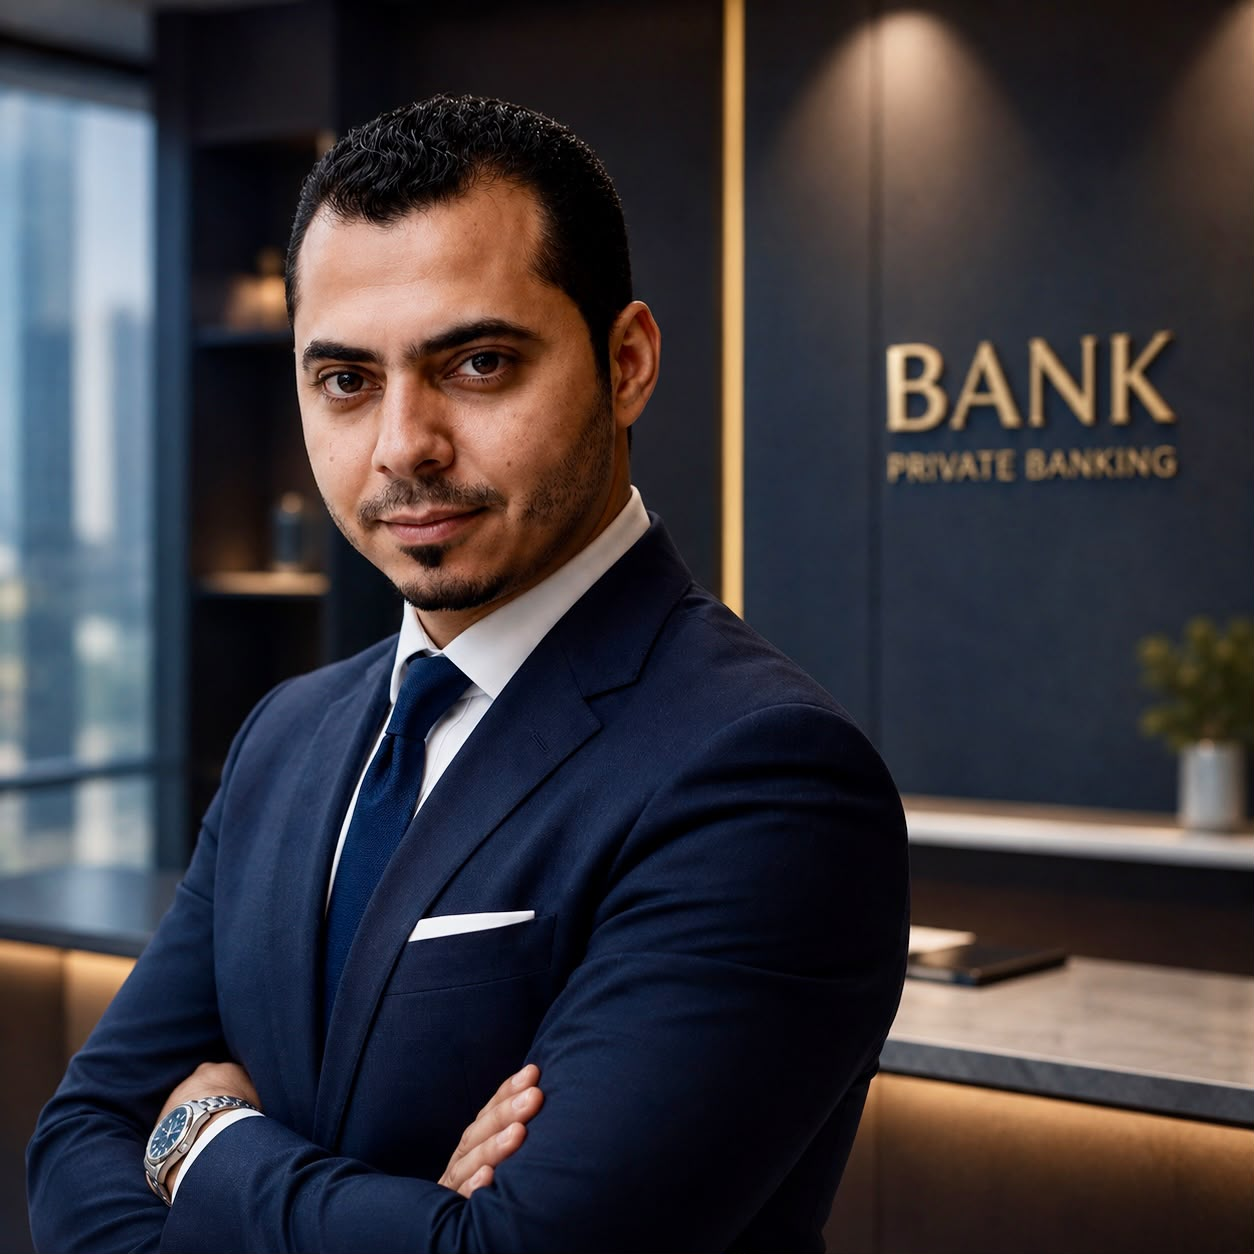
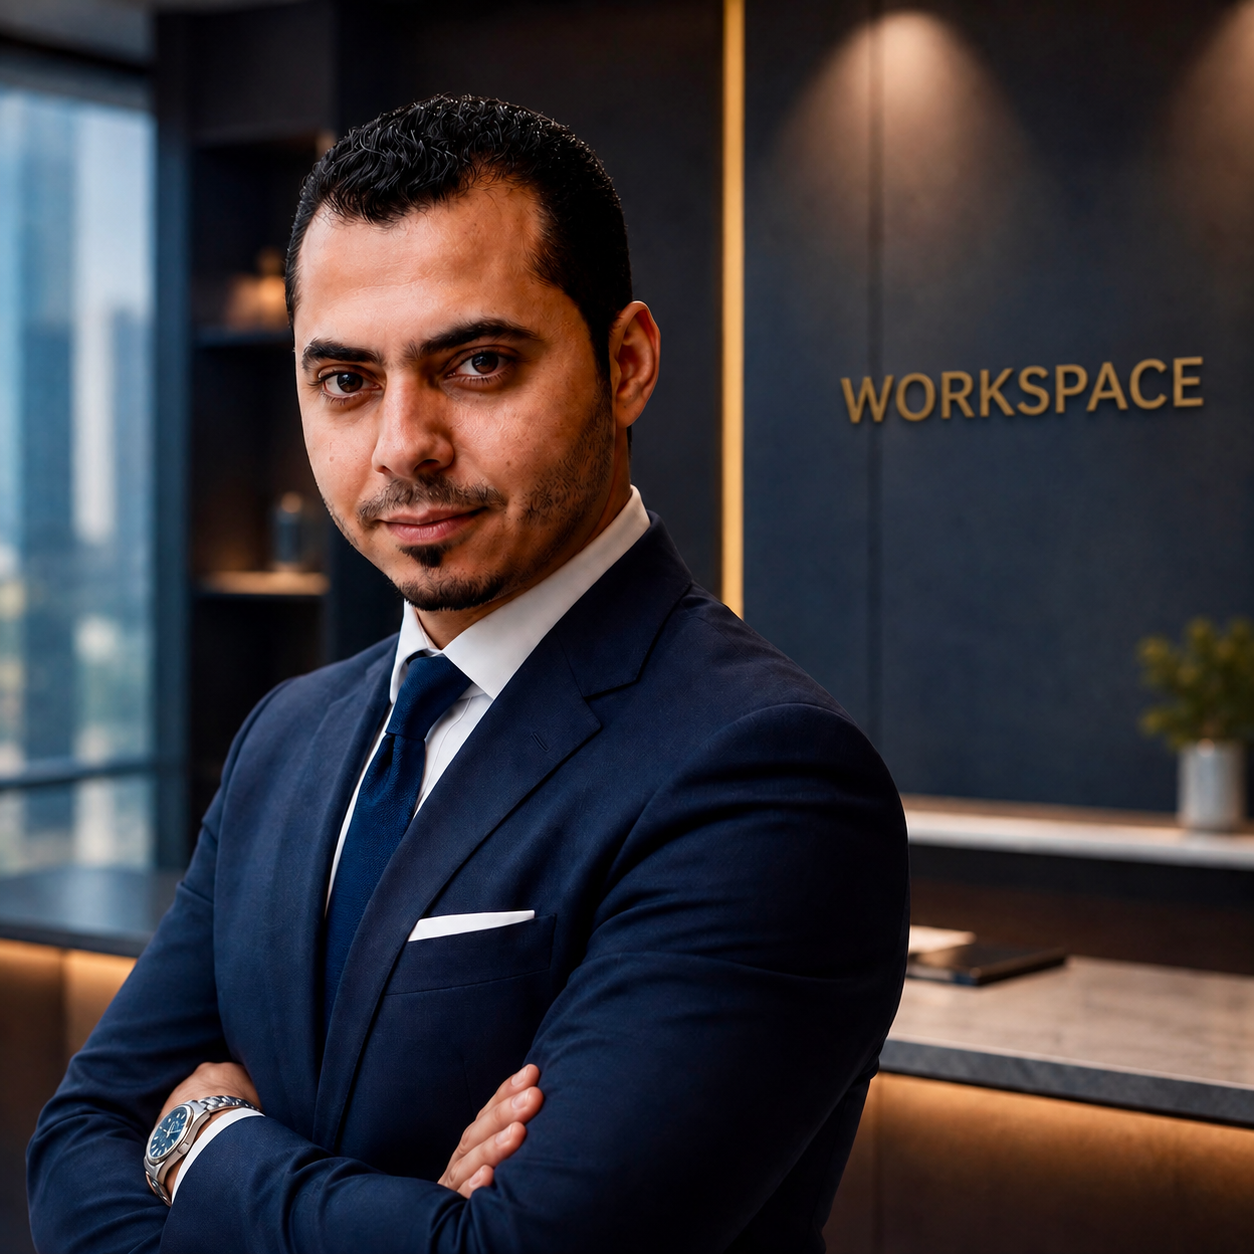
تحديث وتطوير السيرة الذاتية وإضافة خبرة أوكرة

diff --git a/index.html b/index.html
@@ -634,7 +634,30 @@
             <i class="fa-solid fa-chevron-down"></i>
         </div>
     </section>
+<style>
+    .profile-image{
+    max-width: 220px;
+    object-fit: cover;
 
+    border: 4px solid #d4af37;
+
+    box-shadow:
+        0 0 0 1px rgba(244,228,166,.4),
+        0 10px 30px rgba(0,0,0,.25),
+        0 0 25px rgba(212,175,55,.25);
+
+    transition: all .4s ease;
+}
+
+.profile-image:hover{
+    transform: translateY(-5px);
+
+    box-shadow:
+        0 0 0 2px rgba(244,228,166,.6),
+        0 15px 40px rgba(0,0,0,.35),
+        0 0 35px rgba(212,175,55,.4);
+}
+</style>
     <main class="container my-5">
         <div class="bg-white p-4 p-md-5 mx-auto rounded-4 shadow-lg" style="max-width: 210mm;">
 
@@ -646,8 +669,10 @@
                     </div>
                     <div class="row align-items-center">
                         <div class="col-md-4 text-center mb-4 mb-md-0">
-                            <img src="ramyamerfor.webp" class="img-fluid rounded-3 border border-4 border-primary shadow-sm" style="max-width: 220px; object-fit: cover;" alt="رامي عامر">
-                        </div>
+    <img src="ramyamerfor.webp"
+         class="img-fluid rounded-3 profile-image"
+         alt="رامي عامر">
+</div>
                         <div class="col-md-8">
                             <p class="fs-6 lh-lg text-secondary">
                                 محترف خبرة في <strong>تطوير المبيعات وإدارة المبيعات</strong> لأكثر من 9 سنوات في القطاعات المصرفية، التجزئة، المقاولات، والتطوير العقاري. أجمع بين الخبرة الميدانية في قيادة فرق المبيعات وإدارة حسابات العملاء الكبرى، وبين الابتكار التقني في أتمتة أنظمة البيع والتسويق باستخدام الذكاء الاصطناعي.